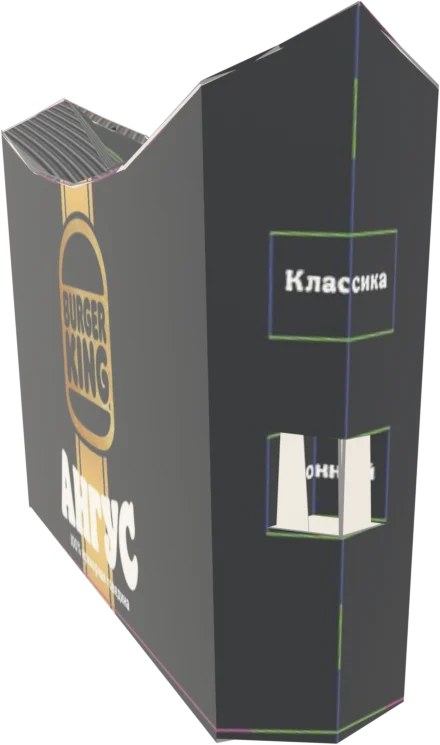
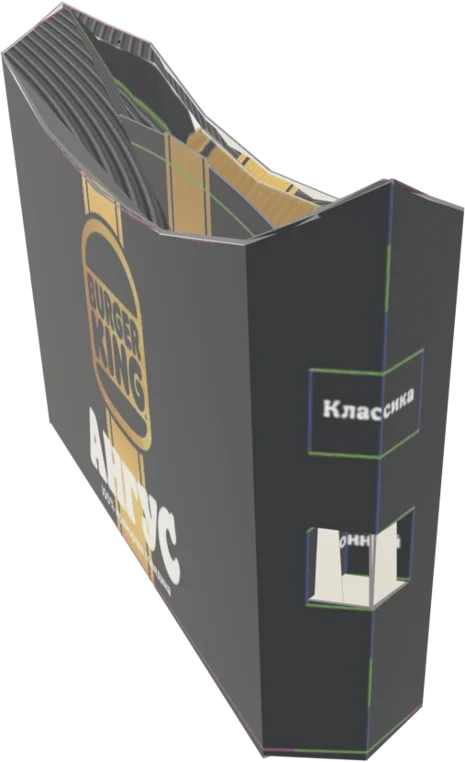
Пита в тренажёрах — рендеры 3D-модели вместо рисунка: верх обычной и острой (линза «Остро!»), ребро с клапанами

diff --git a/js/gb-cashier.js b/js/gb-cashier.js
@@ -198,9 +198,11 @@
      Упаковки — рендеры 3D-моделей курса по макетам (blender/render_cashier.py):
      закрытая упаковка на бине и сторона с клапанами, где нужные клапаны продавлены
      так же, как их продавливают на станции. Наклейки «Остро» и модификаторы
-     кладутся поверх. У острой питы «Остро» на верхе пакета — тоже наклейкой поверх. */
+     кладутся поверх. Пита на бине и «лицом» — это верх пакета: острую закрывают
+     линзой с «Остро!», обычную — линзой без надписи (blender/pita_lowpoly/render_pita_views.py). */
   const IMG = "assets/trainer/cashier/";
   const CLOSED = { angus: "angus-closed", bigking: "bigking-closed", whopper: "clamshell-closed", pita: "pita-closed" };
+  const closedImg = (v) => v.pack === "pita" && v.marks.some((m) => m.kind === "side" && m.key === "spicy") ? "pita-closed-hot" : CLOSED[v.pack];
   const FOCUS = { angus: [0.5, 0.78], bigking: [0.42, 0.8], whopper: [0.5, 0.7], pita: [0.6, 0.55] };   // где клапаны на картинке
   function marksImg(v) {
     const has = (l) => v.marks.some((m) => m.label === l);
@@ -215,7 +217,7 @@
   }
   function overlays(v) {
     return v.marks.map((m) => {
-      if (m.kind === "sticker" || (m.kind === "side" && m.key === "spicy")) return `<span class="gb-sticker gb-sticker--hot">ОСТРО</span>`;
+      if (m.kind === "sticker") return `<span class="gb-sticker gb-sticker--hot">ОСТРО</span>`;
       if (m.kind === "mod") return `<span class="gb-sticker gb-sticker--mod">${m.key === "minus" ? "БЕЗ" : "+"} ${m.label.toUpperCase()}</span>`;
       if (m.kind === "icon" && v.pack === "angus") return `<span class="gb-sticker gb-sticker--mark">ДВОЙНАЯ КОТЛЕТА</span>`;
       return "";
@@ -223,10 +225,10 @@
   }
   const pkgSvg = (it, zoom) => {
     const v = it.v;
-    const file = it.view === "front" ? CLOSED[v.pack] : marksImg(v);
+    const file = it.view === "front" ? closedImg(v) : marksImg(v);
     if (!file) return ART().pack(v.pack, { view: it.view, marks: v.marks, zoom });
-    const alt = `${PACK_NAME[v.pack]}${it.view === "front" ? ", закрыта" : ": " + describe(v)}`;
-    return `<span class="gb-pkimg"><img src="${IMG + file}.webp" alt="${alt}" draggable="false">${it.view === "front" ? overlays({ ...v, marks: v.marks.filter((m) => m.kind === "sticker" || m.kind === "side") }) : overlays(v)}</span>`;
+    const alt = `${PACK_NAME[v.pack]}${it.view === "front" ? (v.pack === "pita" ? ", верх пакета" : ", закрыта") : ": " + describe(v)}`;
+    return `<span class="gb-pkimg"><img src="${IMG + file}.webp" alt="${alt}" draggable="false">${it.view === "front" ? overlays({ ...v, marks: v.marks.filter((m) => m.kind === "sticker") }) : overlays(v)}</span>`;
   };
 
   function drawBin(st) {
@@ -250,13 +252,14 @@
       const it = st.items[st.hand];
       document.getElementById("gb-hand-title").textContent = `Упаковка ${st.hand + 1} · ${PACK_NAME[it.v.pack]}`;
       view.innerHTML = `<div class="gb-hands__pkg ${spin ? "is-spin" : ""}">${pkgSvg(it, true)}</div>`;
+      const pita = it.v.pack === "pita";             // у питы «лицо» — верх пакета: им тоже маркируют
       document.getElementById("gb-hand-note").textContent = it.view === "front"
-        ? "Лицевая сторона: маркировки здесь нет."
+        ? (pita ? "Верх пакета: посмотри, какой стороной он закрыт." : "Лицевая сторона: маркировки здесь нет.")
         : "Сторона с клапанами: сверь маркировку с заказом.";
       const flipBtn = document.getElementById("gb-hand-flip");
       flipBtn.innerHTML = it.view === "front"
         ? `${icon("i-rotate")} Сторона с клапанами`
-        : `${icon("i-rotate")} Лицевая сторона`;
+        : `${icon("i-rotate")} ${pita ? "Верх пакета" : "Лицевая сторона"}`;
     };
     const take = (i) => {
       st.hand = i; st.checked = true; st.items[i].seen = true;

diff --git a/js/gb-cook.js b/js/gb-cook.js
@@ -847,7 +847,10 @@
             ${label}<span class="gb-mark__ok">отмечено</span></button>`).join("")}
         </div></div>`);
       const draw = () => {
-        ctx.host.querySelector("#gb-mp").innerHTML = ART().pack(step.pack, { view: "marks", zoom: true, marks: marked.map(markObj) });
+        // пита — рендер 3D-модели: ребро с клапанами до и после продавливания «Сезонный»
+        ctx.host.querySelector("#gb-mp").innerHTML = step.pack === "pita"
+          ? `<span class="gb-pkimg"><img src="assets/trainer/${marked.includes("Сезонный") ? "cashier/pita-sezonnyi" : "cook/pita-edge"}.webp" alt="Торец упаковки питы с клапанами" draggable="false"></span>`
+          : ART().pack(step.pack, { view: "marks", zoom: true, marks: marked.map(markObj) });
       };
       draw();
       ctx.host.querySelector("#gb-mk").addEventListener("click", async (e) => {
@@ -907,8 +910,8 @@
     /* 11. Пита: какой стороной закрыть */
     pitaSide(ctx) {
       ctx.host.innerHTML = scene(`<div class="gb-choice-grid cols-2" id="gb-side">
-        <button class="gb-pick" data-side="plain"><span class="gb-slot" style="--ratio:1">${ART().pack("pita", { view: "marks", zoom: true, marks: [] })}</span>Сторона без надписи</button>
-        <button class="gb-pick" data-side="spicy"><span class="gb-slot" style="--ratio:1">${ART().pack("pita", { view: "marks", zoom: true, marks: [{ kind: "side", key: "spicy" }] })}</span>Сторона «Остро»</button>
+        <button class="gb-pick" data-side="plain"><span class="gb-slot bare" style="--ratio:2;--fit:contain"><img src="assets/trainer/cook/pita-top-plain.webp" alt="Пита закрыта линзой без надписи" draggable="false"></span>Сторона без надписи</button>
+        <button class="gb-pick" data-side="spicy"><span class="gb-slot bare" style="--ratio:2;--fit:contain"><img src="assets/trainer/cook/pita-top-spicy.webp" alt="Пита закрыта линзой «Остро!»" draggable="false"></span>Сторона «Остро»</button>
       </div>`);
       ctx.host.querySelector("#gb-side").addEventListener("click", async (e) => {
         const b = e.target.closest("[data-side]"); if (!b) return;
